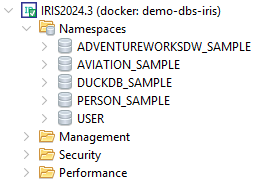
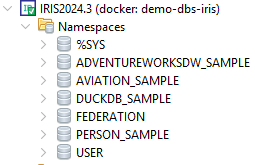
New Namespace to host all the FOREIGN SERVERs
This namespace is designed to facilitate the integration of data from multiple namespaces. IRIS does not support executing SQL statements that combine tables from different namespaces. To address this limitation, this federated namespace leverages the concept of creating foreign servers to include other namespaces.

diff --git a/README.md b/README.md
@@ -8,21 +8,65 @@ The primary focus of this project is the SQL layer of InterSystems IRIS. While I
 
 ![Namespaces](/doc/view_all_namespace_sqldatalens.png)
 
-The following namespaces with example databases are available:
-
-- **Aviation_SAMPLE**: Contains demo data from the aviation industry, such as flight data or aircraft fleet information. [Original repo: Samples-Aviation](https://github.com/intersystems/Samples-Aviation)
-![Aviation_SAMPLE](/doc/tables_aviation_namespace_sqldatalens.png)
-
-- **Person_SAMPLE**: A sample database with information about individuals and their attributes, ideal for generic database testing. [Original repo: Samples-Data](https://github.com/intersystems/Samples-Data)
-![Person_SAMPLE](/doc/tables_person_namespace_sqldatalens.png)
+The following namespaces are available:
 
 - **AdventureworksDW_SAMPLE**: A data warehouse example from the MS AdventureWorks databases, suitable for BI and reporting scenarios. [Original repo: isc-adventureworks](https://github.com/bdeboe/isc-adventureworks/)
 ![AdventureworksDW_SAMPLE](/doc/tables_adventureworks_namespace_sqldatalens.png)
 The data (csv files) comes from the original MS repo [microsoft sql-server-samples](https://github.com/microsoft/sql-server-samples/tree/master/samples/databases/adventure-works/data-warehouse-install-script)
 
+
+- **Aviation_SAMPLE**: Contains demo data from the aviation industry, such as flight data or aircraft fleet information. [Original repo: Samples-Aviation](https://github.com/intersystems/Samples-Aviation)
+![Aviation_SAMPLE](/doc/tables_aviation_namespace_sqldatalens.png)
+
+
 - **DuckDB_SAMPLE**: A sample database focused on DuckDB integration. 
-The **airlines.dat file** (src\DuckDBSample) contains information on airlines Data files and comes the from: https://openflights.org/data.html
-The **yellow_tripdata_2024-01.parquet** file comes from ttps://www.nyc.gov/site/tlc/about/tlc-trip-record-data.page. Also helpful [azure/open-datasets](https://learn.microsoft.com/en-us/azure/open-datasets/dataset-taxi-yellow?tabs=azureml-opendatasets)
+The **airlines.dat file** (src\DuckDBSample) contains information on airlines. The data file (csv) comes the from: https://openflights.org/data.html
+The **yellow_tripdata_2024-01.parquet** file comes from https://www.nyc.gov/site/tlc/about/tlc-trip-record-data.page. Also helpful [azure/open-datasets](https://learn.microsoft.com/en-us/azure/open-datasets/dataset-taxi-yellow?tabs=azureml-opendatasets)
+
+- **FEDERATION**: This namepace is used to combine the data from other namespaces. IRIS can't execute SQL Statements that combines tables from different nanmespaces. To avoid this limitation this federated namespace is used to include the other namespaces by creating foreign server. With that it is possilbe to create foreign tables, with that you can combine all tables within this federated namespace and write SQL statements that combine the table in one SQL Statements. This namespace is used to explore this feature. 
+
+This namespace is designed to facilitate the integration of data from multiple namespaces. IRIS does not support executing SQL statements that combine tables from different namespaces. To address this limitation, this federated namespace leverages the concept of creating foreign servers to include other namespaces.
+
+By defining foreign tables, it becomes possible to seamlessly combine tables across namespaces, allowing users to write SQL statements that unify data into a single query. This namespace is used to explore this feature, serves as a practical demonstration of this capability, showcasing how to explore and utilize it.
+
+![Foreign Tables](/doc/foreign_table.png)
+
+![Foreign Tables](/doc/foreign_table_2.png.png)
+
+
+In this namespace foreign servers are created to connect to the other namespaces like this:
+
+```sql
+CREATE FOREIGN SERVER LocalIRIS.AdventureworksDW_Sample FOREIGN DATA WRAPPER JDBC CONNECTION 'ConLocal_AdventureworksDW_Sample'
+GO
+CREATE FOREIGN SERVER LocalIRIS.Person_SAMPLE FOREIGN DATA WRAPPER JDBC CONNECTION 'ConLocal_Person_SAMPLE'
+GO
+CREATE FOREIGN SERVER LocalIRIS.Aviation_SAMPLE FOREIGN DATA WRAPPER JDBC CONNECTION 'ConLocal_Aviation_SAMPLE'
+GO
+```
+
+The necessary connections were previously created in file iris_initialisation.script. This is necessary because no functional connections can be created via SQL. See also: [create-sqlgateway-connection-using-code](https://community.intersystems.com/post/how-can-i-create-sqlgateway-connection-using-code)
+
+
+```sql
+CREATE FOREIGN TABLE Adventureworks.DimDate SERVER LocalIRIS.AdventureworksDW_Sample TABLE 'Adventureworks.DimDate'
+GO
+CREATE FOREIGN TABLE Sample.Company SERVER LocalIRIS.Person_SAMPLE TABLE 'Sample.Company'
+GO
+```
+
+At this time it is not possible to integrate tables from the Aviation Namespace. It just doesnt work. All three tables produce the same error.
+
+```sql
+CREATE FOREIGN TABLE Aviation.Event SERVER LocalIRIS.Aviation_SAMPLE TABLE 'Aviation.Event'
+Unexpected error occurred in generated CREATE FOREIGN TABLE code:ERROR #5002: ObjectScript error: <ILLEGAL VALUE>Decode+1^%SQL.FDW.XDBC.1
+```
+
+
+- **Person_SAMPLE**: A sample database with information about individuals and their attributes, ideal for generic database testing. [Original repo: Samples-Data](https://github.com/intersystems/Samples-Data)
+![Person_SAMPLE](/doc/tables_person_namespace_sqldatalens.png)
+
+
 
 ## Purpose of this Repository
 
